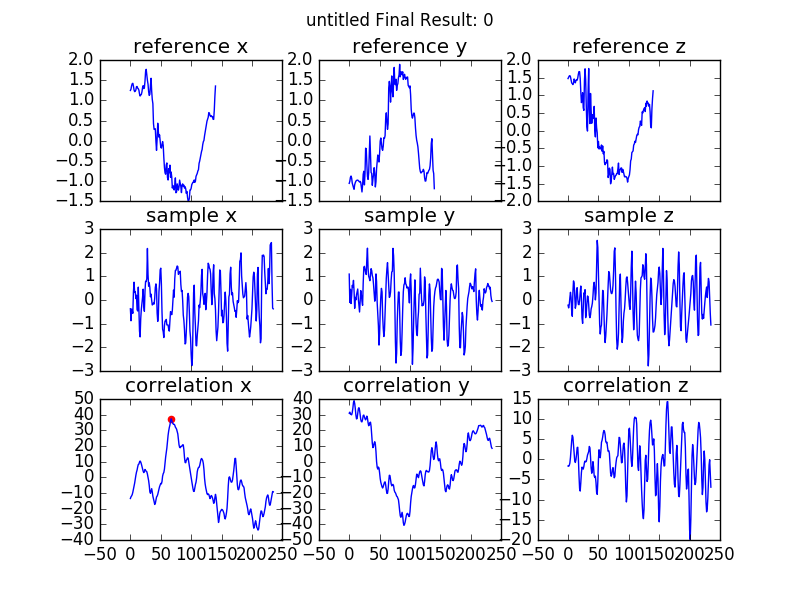
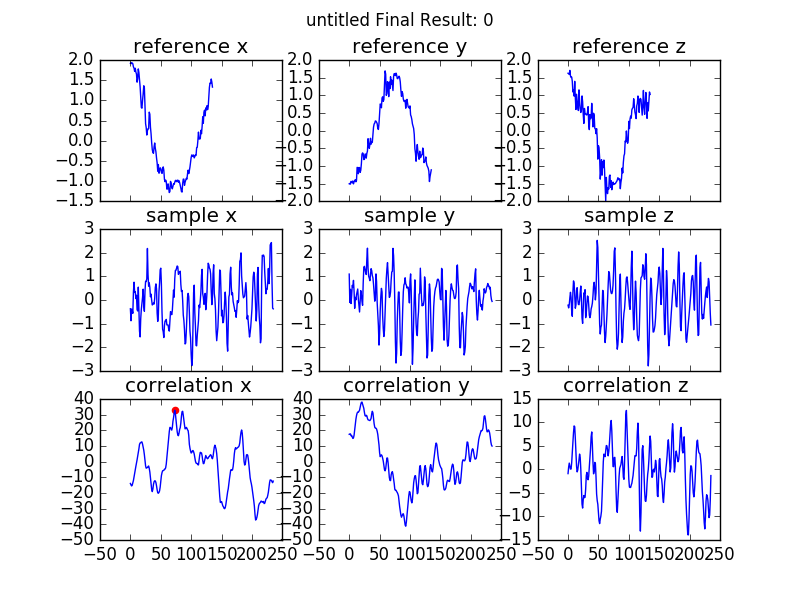
testing sublime extension

diff --git a/threeAxis.py b/threeAxis.py
@@ -1,4 +1,5 @@
 import numpy as np
+import matplotlib.pyplot as plt
 
 def removeInvalid(x,y,z,threshold,xheight):	
 	#since a squat produces simiar motion in all 3 axes, we should get peaks on cross correlation around the same time.
@@ -65,6 +66,9 @@ def parseCSV(filepath,convert):
 	del contents[0]
 	del contents[0]
 
+	if("Time" in contents[0]):	#get rid of "pause header extra line"
+		del contents[0]
+	
 	#bin the data to x,y,z lists
 	x=[]
 	y=[]
@@ -88,7 +92,7 @@ def analysis(samplefile,convert,server=0,fname="untitled"):
 	#server flag is used to disable things that aren't necessary when running in the Flask server
 
 	#1.Load the reference data sequence. Then load the data sequence we would like to identify
-	base_x,base_y,base_z=parseCSV("base.csv",1)
+	base_x,base_y,base_z=parseCSV("jenni_reference.csv",1)
 	sq_x,sq_y,sq_z=parseCSV(samplefile,convert)
 
 	#2.Do a z score normalization for both sets
@@ -123,7 +127,6 @@ def analysis(samplefile,convert,server=0,fname="untitled"):
 		print(peaks_z[0])
 
 	#6.Time for fancy visuals!
-	import matplotlib.pyplot as plt
 	f, (ax1, ax2,ax3) = plt.subplots(3, 3,sharex=True)
 
 	#Graph reference data
@@ -170,6 +173,36 @@ def analysis(samplefile,convert,server=0,fname="untitled"):
 	return returnList
 
 
+def parseReference(filepath):
+	#read file contents
+	x,y,z=parseCSV(filepath,1)
+	print(type(x))
+	plt.plot(x)
+	plt.plot(y)
+	plt.plot(z)
+	plt.show()
+
+	indexLow=input("Enter the left side of the sample:\n")
+	indexHigh=input("Enter the right side of the sample:\n")
+	indexLow=int(indexLow)
+	indexHigh=int(indexHigh)
+
+	referenceFilename=input("Enter the name of the new reference:\n")
+	
+	x=x[indexLow:indexHigh]
+	y=y[indexLow:indexHigh]
+	z=z[indexLow:indexHigh]
+	
+
+	plt.plot(x)
+	plt.plot(y)
+	plt.plot(z)
+	plt.show()
+
+
+
+
+
 def runTests():
 	print("Running Self-Test Module:")
 	testEntries=[]
@@ -205,10 +238,11 @@ def runTests():
 if __name__ == "__main__":
 	#run this code when .py file is directly launched, i.e. not imported as a library by Flask
 
-	runTests()
+	#runTests()
+	parseReference("j_ref.csv")
 
 	#analysis("5squat.csv",1)
-	#filename="1"	
+	#filename="jenni3"	
 	#analysis("C:\\Users\\Mahela\\Downloads\\CSV\\"+filename+".csv",1)
 
 	#analysis("run.csv",0)
